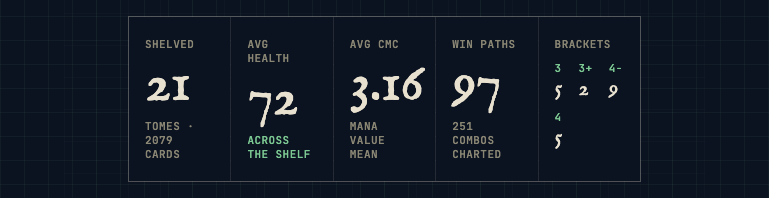
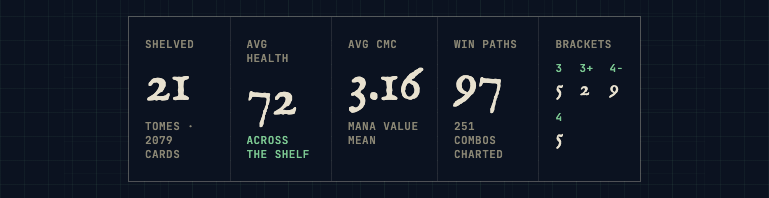
fix: DEC-1043 round 1: every Codex stat shows whole in the band with any face
From 769 to 824px the stats strip had five minmax(0, 1fr) tracks. In the
fallback faces "3.16" (97px in Georgia) ran under the next cell, which hid
its last digit. The strip is now a wrapping flex row in the band: five even
cells, none narrower than its value, and a cell that does not fit moves to
a second row. With the web fonts the band draws the head's boxes from 787px
up (0.02px placements from 790 to 820px); from 769 to 785px the AVG CMC cell
widens to hold "3.16", which passed its content edge by up to 3.5px.

The fonts-blocked case also reads each child of each stat cell against the
cell's content edge on /codex at 769 and 824px. The Performance rule names
the option A limit (ruling 8288eed2).

diff --git a/web/tests/dec1043-gutter-blocks.spec.ts b/web/tests/dec1043-gutter-blocks.spec.ts
@@ -10,7 +10,9 @@
 // viewport, where the root clips them: at 769px /codex read 773 / 769 and
 // every deck guide 860 / 769. At 1024px one word of the Commander's deck name
 // pushed the dossier past it (titan-convergence 1042 / 1024). The second case
-// fails the web-font requests and reads the root.
+// fails the web-font requests and reads the root. It also reads each value of
+// the Codex stats strip against its cell: with even tracks "3.16" (97px in
+// Georgia) ran under the next cell, which hid its last digit.
 
 import { expect, test, type Page } from './support/test';
 
@@ -112,6 +114,34 @@ async function readRoot(page: Page): Promise<RootReading> {
   });
 }
 
+// Each child of each Codex stat cell against the cell's content edge. A
+// child's box is as wide as the cell, so its text is read too: a value wider
+// than the cell runs past the box, under the next cell.
+async function statsPastCell(page: Page): Promise<string[]> {
+  return page.evaluate(() => {
+    const out: string[] = [];
+    for (const cell of document.querySelectorAll('.gv1-codex-stats > .gv1-codex-stat')) {
+      const cs = getComputedStyle(cell);
+      const edge = cell.getBoundingClientRect().right - parseFloat(cs.paddingRight) - parseFloat(cs.borderRightWidth);
+      const label = (cell.firstElementChild?.textContent ?? '').trim();
+      for (const child of cell.children) {
+        let reach = child.getBoundingClientRect().right;
+        const range = document.createRange();
+        range.selectNodeContents(child);
+        for (const r of range.getClientRects()) if (r.width > 0) reach = Math.max(reach, r.right);
+        if (reach > edge + 0.5) {
+          const cls = (child.getAttribute('class') ?? '').trim().split(/\s+/).join('.');
+          const text = (child.textContent ?? '').trim().replace(/\s+/g, ' ');
+          out.push(
+            `${label} cell, ${child.tagName.toLowerCase()}.${cls} "${text}": reaches ${reach.toFixed(1)} against the content edge at ${edge.toFixed(1)}`,
+          );
+        }
+      }
+    }
+    return out;
+  });
+}
+
 test.describe('DEC-1043 @ 769px, web fonts', () => {
   test.use({ cards: 'seeded', viewport: { width: 769, height: 900 } });
 
@@ -130,7 +160,9 @@ test.describe('DEC-1043 @ 769px, web fonts', () => {
 test.describe('DEC-1043, web fonts blocked', () => {
   test.use({ cards: 'seeded', fonts: 'blocked' });
 
-  test('/codex and a deck guide at 769px, and titan-convergence at 1024px, fit the viewport', async ({ page }) => {
+  test('/codex and a deck guide at 769px, and titan-convergence at 1024px, fit the viewport; every Codex stat shows whole', async ({
+    page,
+  }) => {
     const pages = [
       { path: '/codex', width: 769, ready: '.gv1-codex-grid .gv1-codex-card' },
       { path: '/deck/eternal-agony', width: 769, ready: '.gv1-perf-grid' },
@@ -150,5 +182,14 @@ test.describe('DEC-1043, web fonts blocked', () => {
     }
 
     expect(offenders, 'Pages wider than the viewport in the fallback faces').toEqual([]);
+
+    const cut: string[] = [];
+    for (const width of [769, 824]) {
+      await page.setViewportSize({ width, height: 900 });
+      await openSettled(page, '/codex', '.gv1-codex-grid .gv1-codex-card');
+      for (const line of await statsPastCell(page)) cut.push(`/codex @ ${width}px: ${line}`);
+    }
+
+    expect(cut, 'Codex stats past their cell in the fallback faces').toEqual([]);
   });
 });

diff --git a/web/src/styles/styles.css b/web/src/styles/styles.css
@@ -3125,13 +3125,17 @@ em { font-style: italic; color: var(--gv1-gold); }
   /* Codex cards: two even tracks. Three would leave a 126px card body at
      769px, narrower than one word of a deck name ("Witherbloom", 145px). */
   .gv1-codex-grid { grid-template-columns: repeat(2, minmax(0, 1fr)); }
-  /* Codex stats: five even tracks with the phone's 16px side padding. The
-     bracket counts wrap. */
-  .gv1-codex-stats { grid-template-columns: repeat(5, minmax(0, 1fr)); }
-  .gv1-codex-stat { padding-inline: 16px; }
+  /* Codex stats: the phone's 16px side padding, and the bracket counts wrap.
+     Five even cells on one row; a cell never shrinks below its value ("3.16"
+     is 73px in the web font, 97px in Georgia), and a cell that does not fit
+     moves to a second row. */
+  .gv1-codex-stats { display: flex; flex-wrap: wrap; }
+  .gv1-codex-stat { flex: 1 1 0; padding-inline: 16px; }
   .gv1-codex-stat-brackets { flex-wrap: wrap; row-gap: 8px; }
   /* Performance: the note keeps its narrowest width, and the title wraps
-     only where it cannot sit beside it. */
+     only where it cannot sit beside it. Known limit: in the fallback faces
+     the note passes the viewport from 825 to 859px (option A, ruling
+     8288eed2 on DEC-1043). */
   .gv1-perf .gv1-section-head { grid-template-columns: 48px 1fr min-content; }
   .gv1-perf .gv1-section-title { white-space: normal; text-wrap: balance; }
 }
